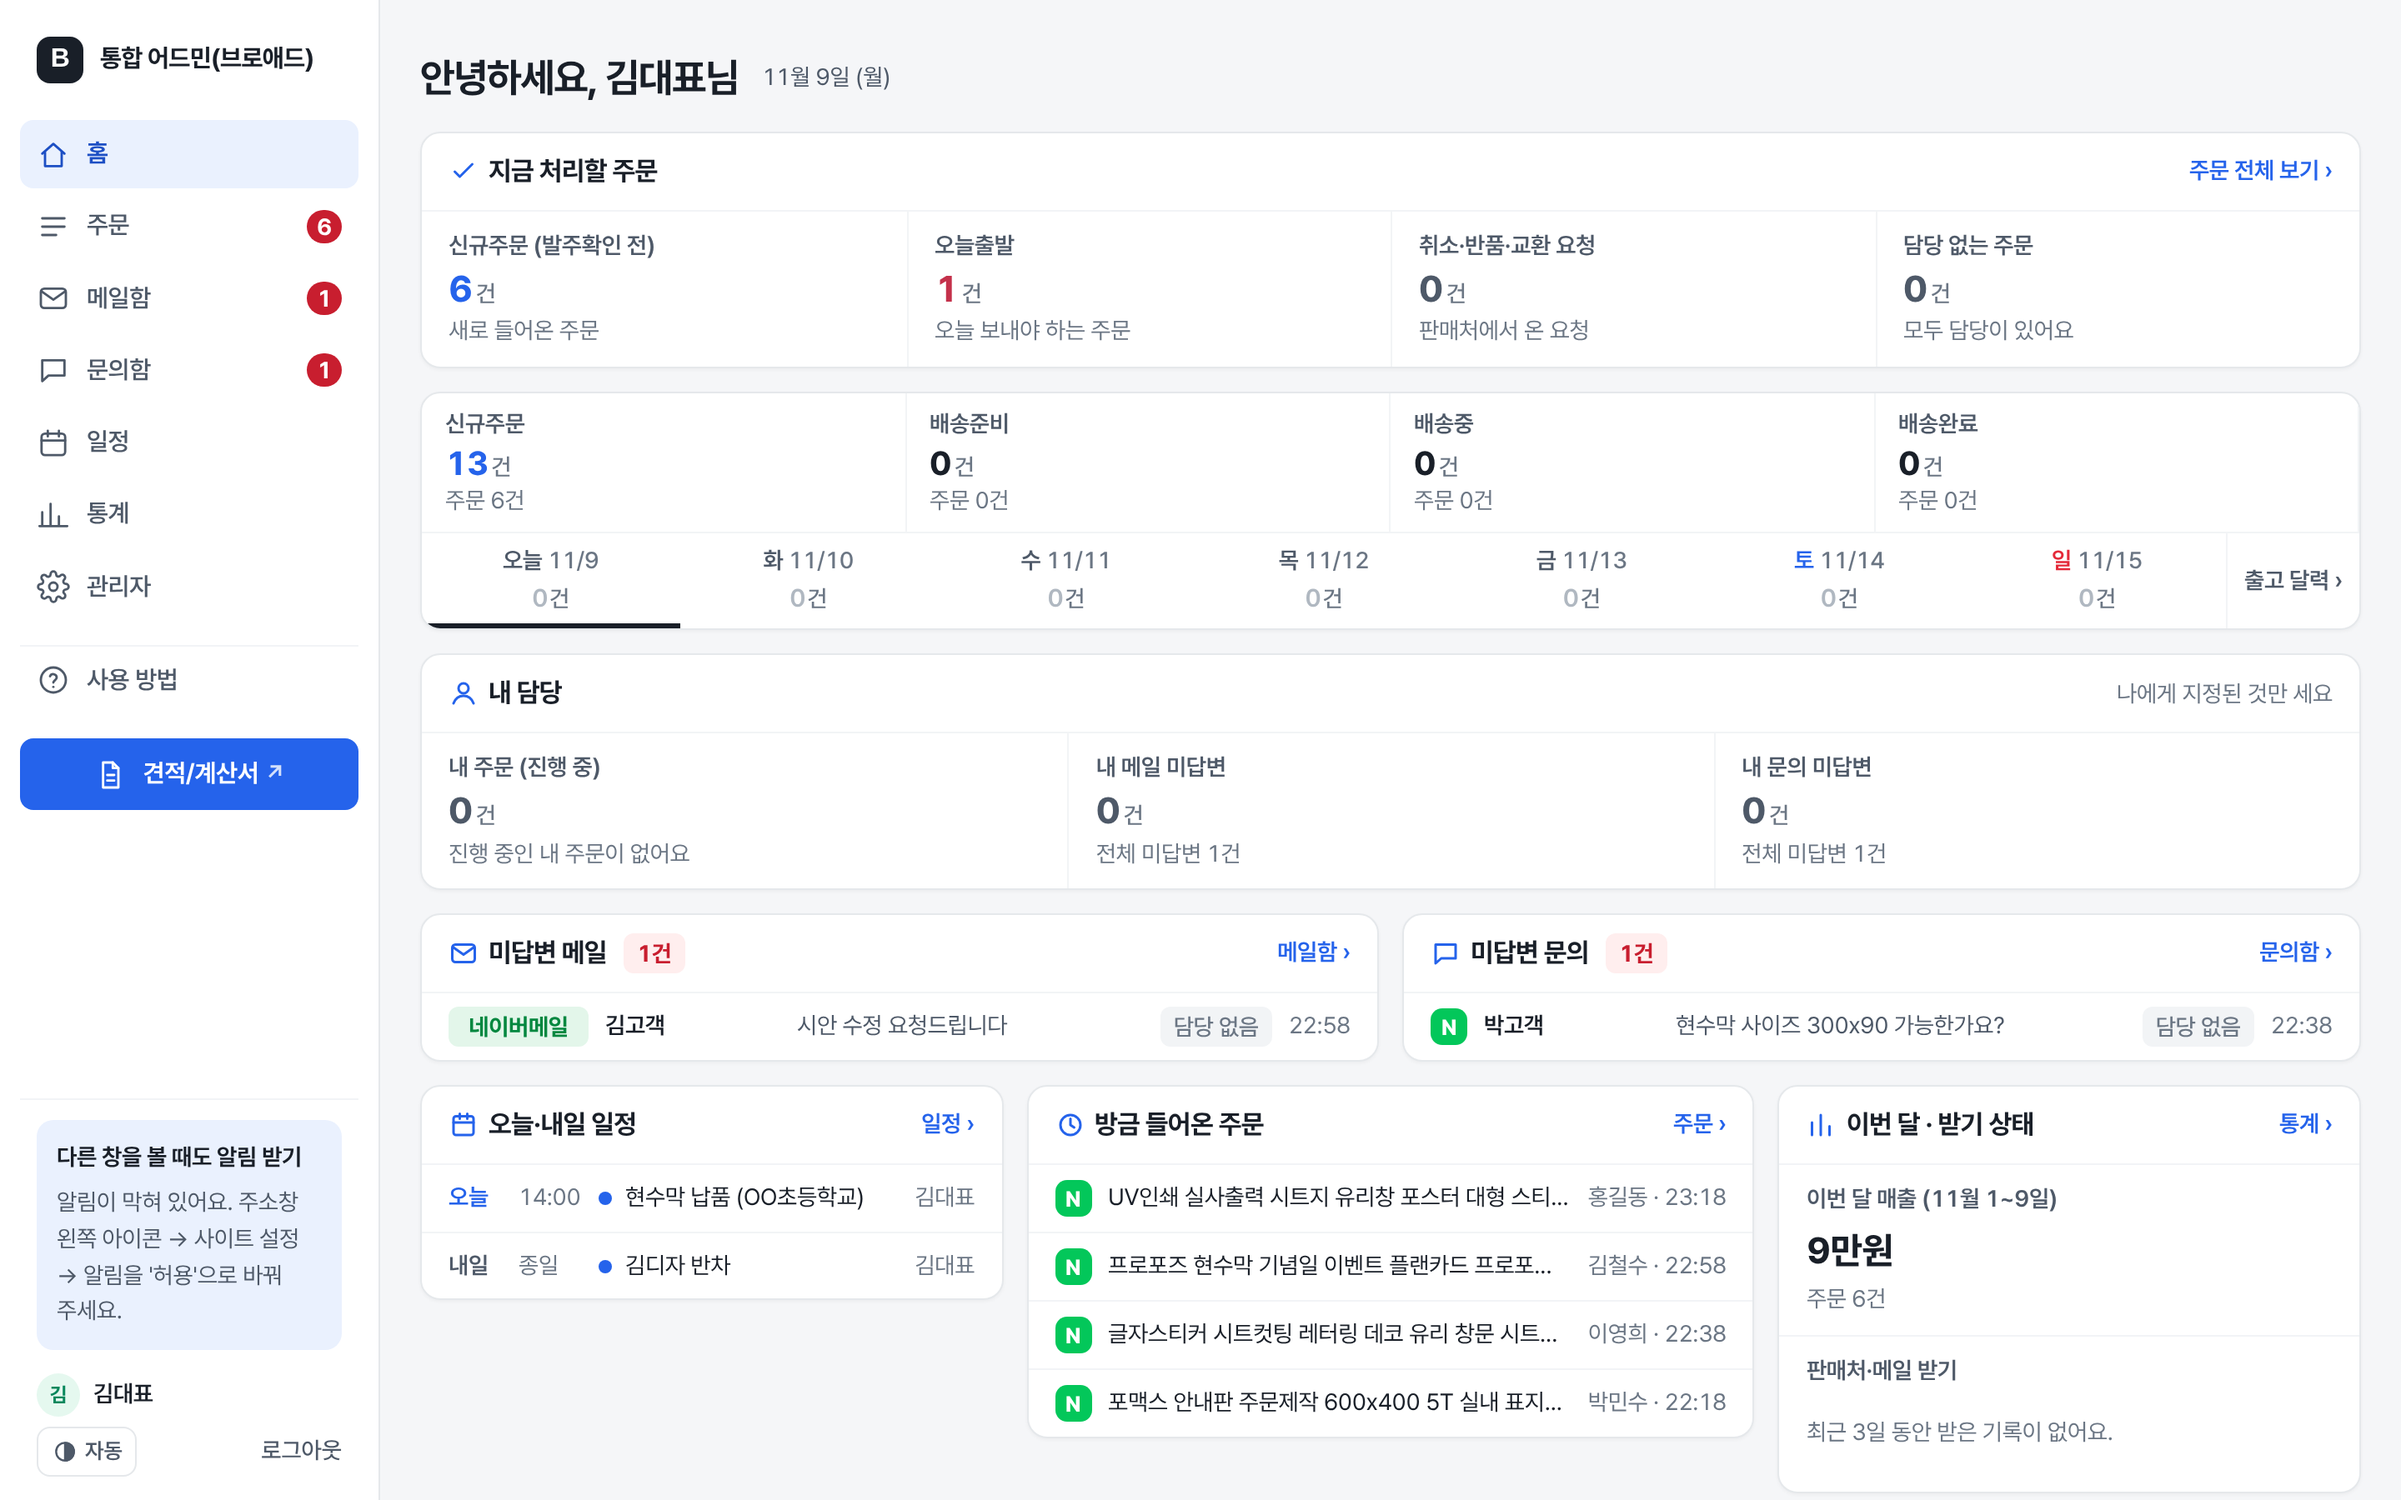
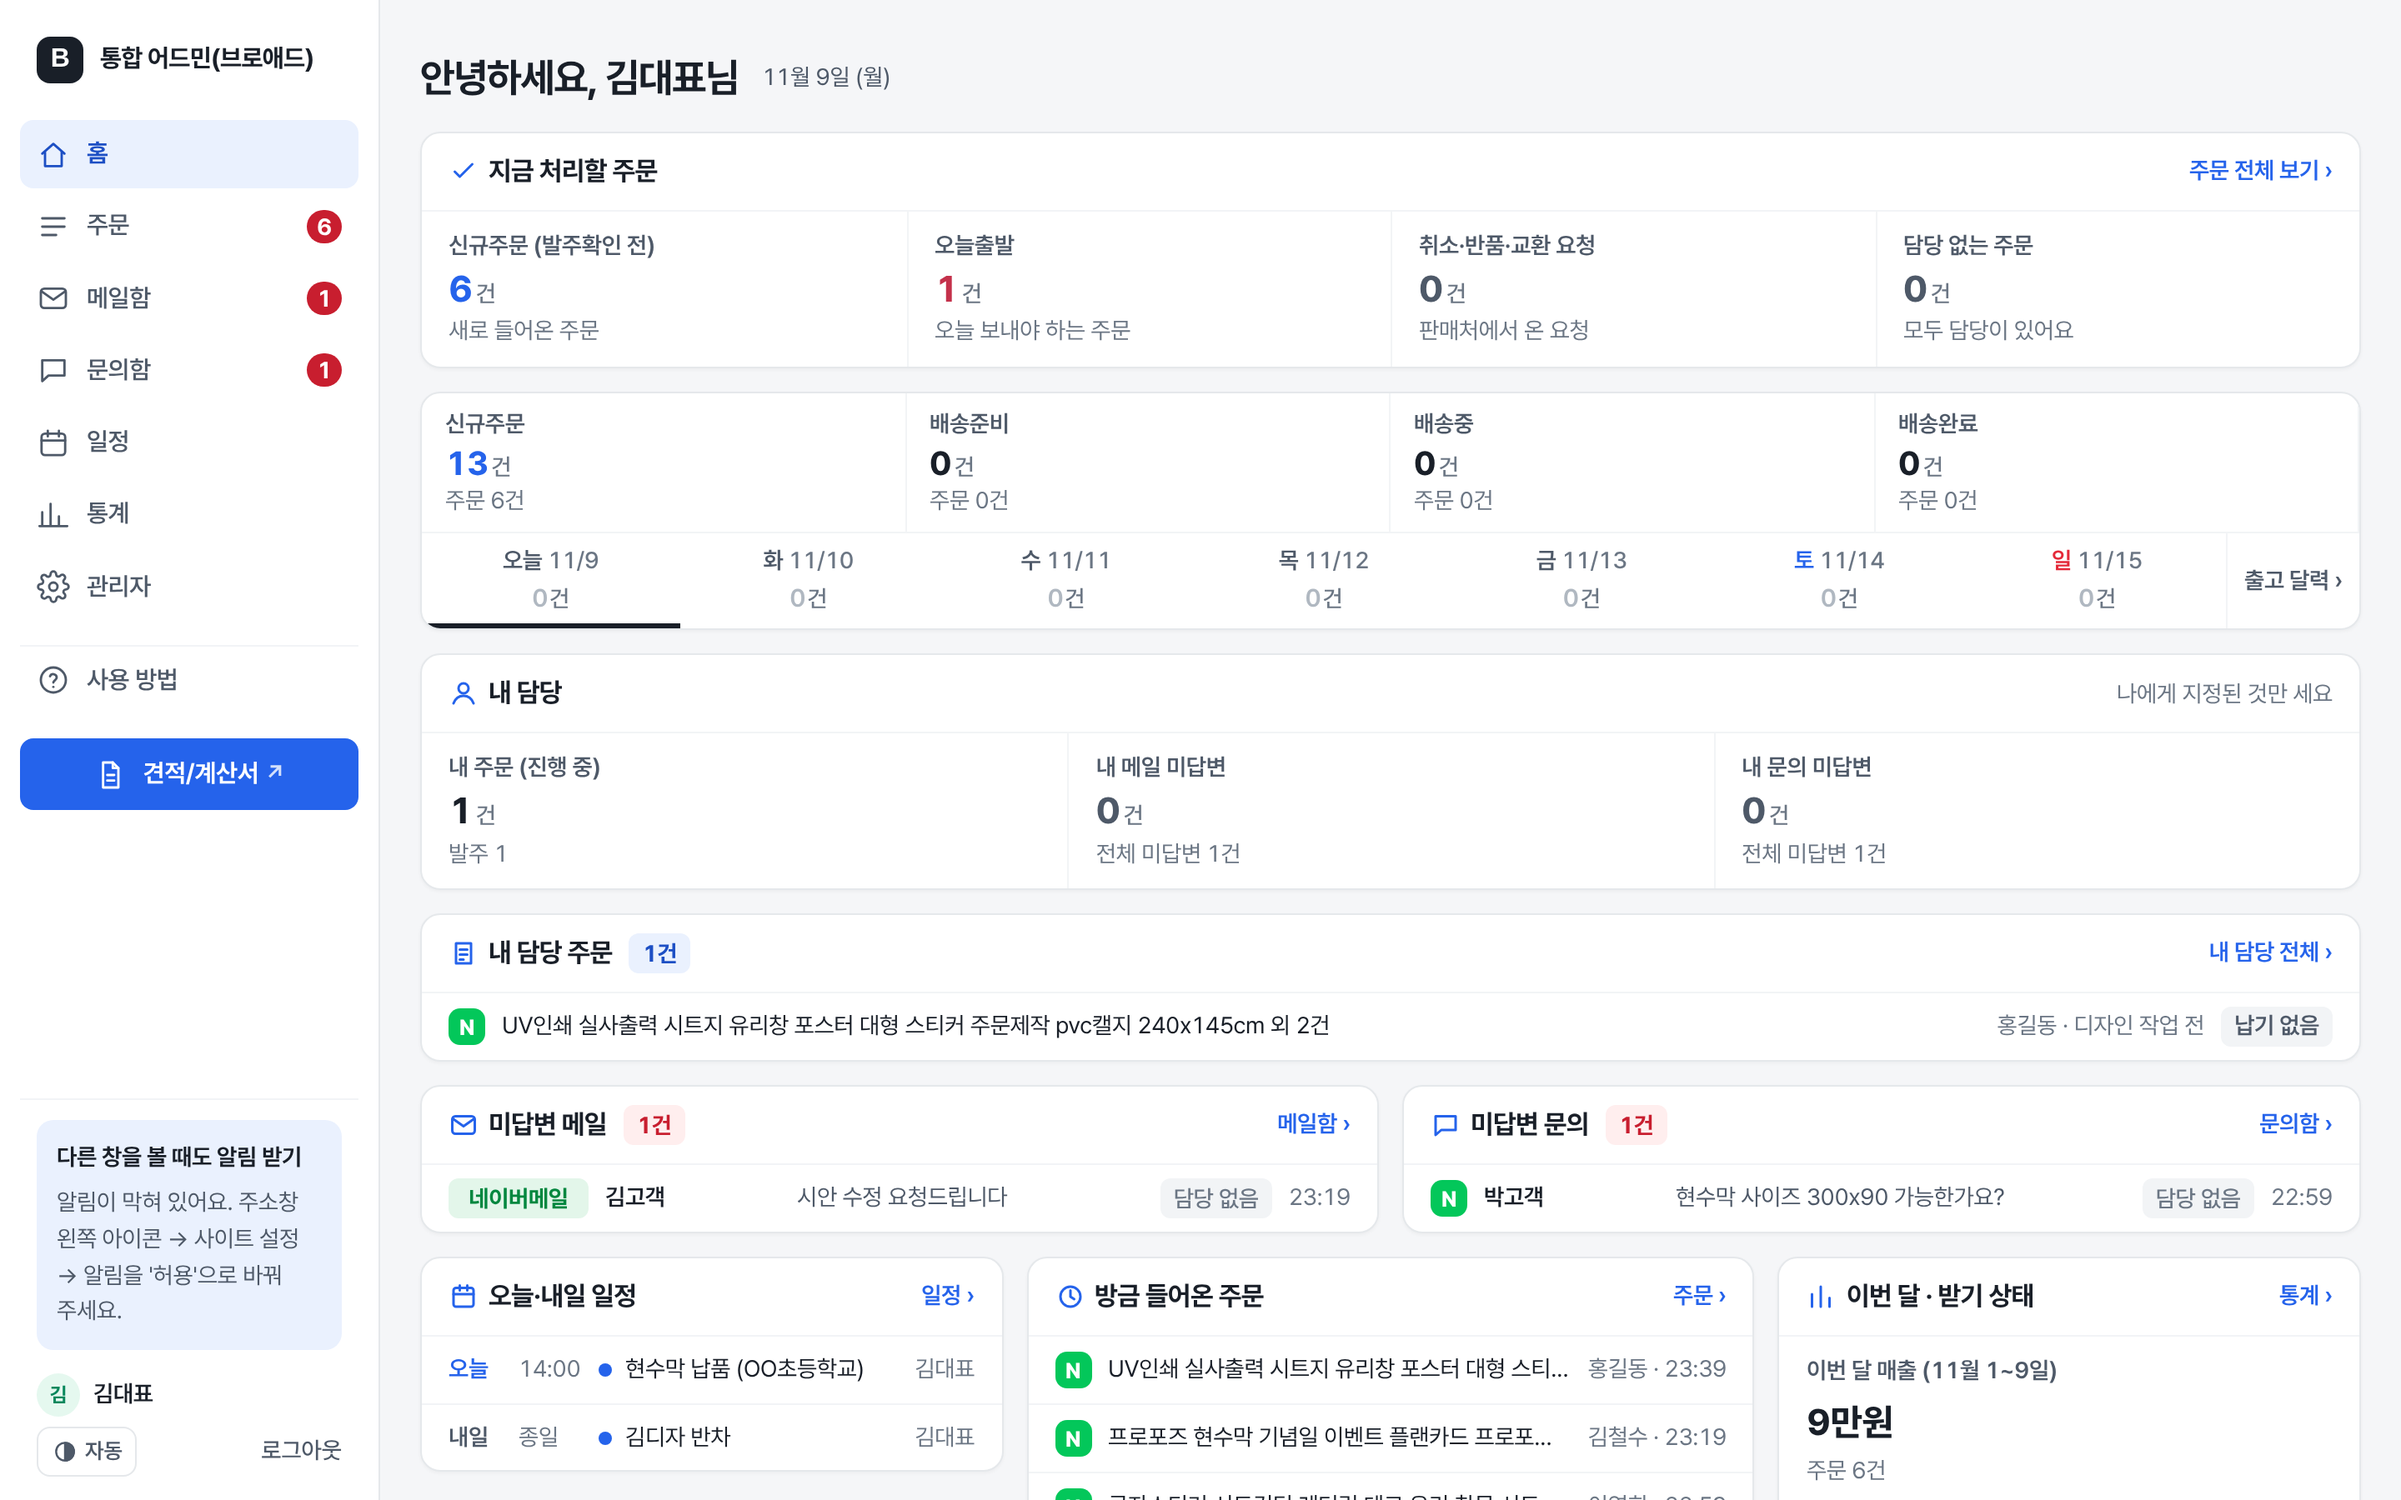
홈: '내 담당' 아래에 내 담당 진행 중 주문 목록(납기 이른 순 6건, 누르면 팝업, 보류·끝난 주문 빼고)
Claude-Session: https://claude.ai/code/session_01Abfsu9LLooC7rduTcq19z3

diff --git a/src/routes/home.js b/src/routes/home.js
@@ -7,6 +7,7 @@ const { isManager } = require('../auth');
 const { orderSummary, kstDay, shipOverview } = require('./orders');
 const { buildWeek } = require('./calendar');
 const { ORDER_TIME } = require('../retention');
+const { ENDED_SQL } = require('../collector');
 const { totals, utcRange } = require('../stats');
 const { dueCountsBetween } = require('./calendar');
 
@@ -90,6 +91,29 @@ function homeRoutes(db, { sourceLabels = {}, chatOn = false } = {}) {
     const dueCounts = dueCountsBetween(db, today, tomorrow);
     const dues = [[today, '오늘'], [tomorrow, '내일']].map(([date, label]) => ({ date, label, n: dueCounts[date] || 0 })).filter(d => d.n);
 
+    // 내 담당 진행 중 주문 (납기가 이른 것부터, 납기 없으면 최근 결제 순) — '내 담당' 칸 아래 목록
+    //   진행 중 = 마지막 단계(발송) 전 + 판매처에서 끝나지 않음 + 보류 아님 (주문 목록 '내 담당' 탭과 같은 조건)
+    const lastStage = (db.prepare('SELECT id FROM work_stages WHERE active = 1 ORDER BY sort_order DESC LIMIT 1').get() || {}).id || -1;
+    const MINE_LIMIT = 6;
+    const mineOrders = db.prepare(`
+      WITH g AS (
+        SELECT o.channel AS ch, o.channel_order_id AS oid, MIN(o.due_date) AS due, MAX(${ORDER_TIME}) AS t, COUNT(*) AS n
+        FROM orders o
+        WHERE o.assignee_id = ? AND o.hold_at IS NULL AND (o.stage_id IS NULL OR o.stage_id != ?)
+        GROUP BY o.channel, o.channel_order_id
+        HAVING MIN(CASE WHEN o.channel_status IN (${ENDED_SQL}) THEN 1 ELSE 0 END) = 0
+      )
+      SELECT g.n, g.due, o.id, o.channel, o.product_name, COALESCE(NULLIF(o.buyer_name, ''), o.receiver_name) AS buyer,
+        ds.name AS design_name, (SELECT COUNT(*) FROM g) AS total
+      FROM g JOIN orders o ON o.id = (
+        SELECT id FROM orders x WHERE x.channel = g.ch AND x.channel_order_id = g.oid
+        ORDER BY CASE WHEN x.item_type = 'addon' THEN 1 ELSE 0 END, x.id LIMIT 1)
+      LEFT JOIN design_stages ds ON ds.id = o.design_stage_id
+      ORDER BY g.due IS NULL, g.due, g.t DESC
+      LIMIT ${MINE_LIMIT}
+    `).all(user.id, lastStage);
+    const mineTotal = mineOrders.length ? mineOrders[0].total : 0;
+
     // 방금 들어온 주문 4건 (주문번호 묶음 단위, 결제 시각 최근 순)
     const recent = db.prepare(`
       WITH g AS (
@@ -156,6 +180,9 @@ function homeRoutes(db, { sourceLabels = {}, chatOn = false } = {}) {
       dues,
       moreEvents: Math.max(0, eventRows.length - 6),
       recent,
+      mineOrders,
+      mineTotal,
+      today,
       mailRows,
       askRows,
       mailLabel: source => MAIL_KIND(source) || source,

diff --git a/test/home.test.js b/test/home.test.js
@@ -187,3 +187,24 @@ test('홈에도 주문 목록 위와 같은 한눈에 보기(상태 4칸 + 7일 
   assert.match(home, /<a href="\/\?st=new" class="ship-tile st-new /);
   assert.match(home, new RegExp(`<a href="/\\?due=${kstDay(2)}" class="week-day`));
 });
+
+test('내 담당 아래에 내 담당 진행 중 주문 목록: 납기가 이른 것부터, 보류·끝난 주문은 빼고, 누르면 팝업', async t => {
+  const { db, baseUrl, kimId } = await setup(t);
+  addOrder(db, { channel_order_id: 'M1', channel_item_id: 'M1-1', product_name: '납기 늦은 현수막', due_date: kstDay(5), assignee_id: kimId, buyer_name: '홍길동' });
+  addOrder(db, { channel_order_id: 'M2', channel_item_id: 'M2-1', product_name: '오늘 납기 명함', due_date: kstDay(0), assignee_id: kimId });
+  addOrder(db, { channel_order_id: 'M3', channel_item_id: 'M3-1', product_name: '보류한 주문', assignee_id: kimId, hold_at: new Date().toISOString() });
+  addOrder(db, { channel_order_id: 'M4', channel_item_id: 'M4-1', product_name: '끝난 주문', assignee_id: kimId, channel_status: 'DELIVERED', channel_confirmed: 1 });
+  addOrder(db, { channel_order_id: 'M5', channel_item_id: 'M5-1', product_name: '남의 주문' });
+  const kim = await loginAs(baseUrl, 'kim@broad.test');
+  const html = (await kim.request('/home')).text;
+  assert.match(html, /내 담당 주문<span class="hm-total calm">2건<\/span>/);
+  const a = html.indexOf('오늘 납기 명함');
+  const b = html.indexOf('납기 늦은 현수막');
+  assert.ok(a > 0 && b > a, '납기가 이른 것부터');
+  assert.match(html, /<span class="hm-due-pill due-soon">납기 오늘<\/span>/);
+  assert.match(html, /<a class="hm-recent hm-mine-row" href="\/orders\/\d+\?back=%2Fhome" data-modal-link>/);
+  const card = html.slice(html.indexOf('id="hm-mine-orders"'), html.indexOf('</section>', html.indexOf('id="hm-mine-orders"')));
+  for (const name of ['보류한 주문', '끝난 주문', '남의 주문']) assert.ok(!card.includes(name), name);
+  const lee = await loginAs(baseUrl, 'boss@broad.test');
+  assert.match((await lee.request('/home')).text, /진행 중인 내 담당 주문이 없어요/);
+});

diff --git a/public/style.css b/public/style.css
@@ -2232,3 +2232,11 @@ a.hm-due .hm-ev-who { color: var(--primary-text); }
 .hm-overview .week-day .wk-ev { display: none; } /* 일정 이름은 아래 '오늘·내일 일정' 칸에 */
 .hm-overview .week-more { padding: 0 10px; }
 @media (max-width: 900px) { .hm-overview .overview { margin: 0 -16px; } }
+
+/* 홈 '내 담당 주문': 주문 · 고객·디자인 단계 · 납기 */
+.hm-mine-row { grid-template-columns: 22px minmax(0, 1fr) auto auto; }
+.hm-due-pill { flex: none; padding: 1px 8px; border-radius: 6px; background: var(--line-2); color: var(--text-2); font-size: 14px; font-weight: 600; white-space: nowrap; }
+.hm-due-pill.due-soon { background: var(--warn-bg); color: var(--warn); }
+.hm-due-pill.due-over { background: var(--error-bg); color: var(--error); }
+@media (max-width: 600px) { .hm-mine-row { grid-template-columns: 22px minmax(0, 1fr) auto; } .hm-mine-row .hm-recent-meta { display: none; } }
+.hm-total.calm { background: var(--primary-weak); color: var(--primary-dark); } /* 할 일 수(빨강 아님) */

diff --git a/docs/guide.md b/docs/guide.md
@@ -44,7 +44,7 @@
 - 홈의 '방금 들어온 주문'을 누르면 주문 화면처럼 **팝업**으로 열려요. 닫으면(✕·Esc·바깥 누르기) 홈 숫자가 새로 바뀌어요. 휴대폰에서는 화면 전체로 열려요.
 - 홈의 '지금 처리할 주문' 아래에는 주문 목록 위와 같은 **한눈에 보기**가 있어요: 신규주문·배송준비·배송중·배송완료 4칸과 오늘부터 7일 출고 건수. 누르면 그 주문 목록이 열려요.
 - 홈의 **오늘·내일 일정**에는 일정과 함께 그날 **출고(납기) 주문 건수**도 보여요. 누르면 그날 납기 주문 목록이 열려요. 주문 목록 위 출고 달력과 같은 숫자예요.
-- 홈의 **내 담당**은 나에게 지정된 주문·메일·문의만 세요. 내 담당이 0건이면 칸을 눌렀을 때 전체 미답변 목록이 열려요.
+- 홈의 **내 담당**은 나에게 지정된 주문·메일·문의만 세요. 그 아래 **내 담당 주문**에는 내가 맡은 진행 중 주문이 납기가 이른 것부터 6건까지 보여요. 누르면 주문 화면이 팝업으로 열려요. 내 담당이 0건이면 칸을 눌렀을 때 전체 미답변 목록이 열려요.
 
 - 메뉴 옆 숫자는 아직 답하지 않은 건수예요. **주문** 옆 숫자는 아직 발주확인하지 않은 신규주문 수예요.
 - 메일함, 톡톡, 문의함 옆 **종 아이콘**을 누르면 그 메뉴 알림만 켜거나 끌 수 있어요. 자세한 건 7장 알림을 보세요.
